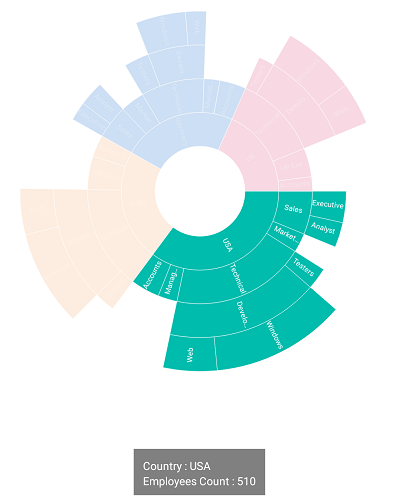
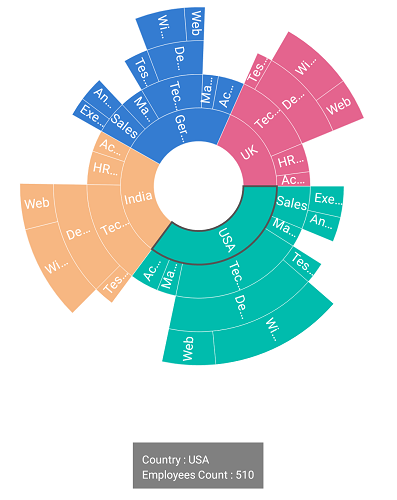
Content modifications

diff --git a/Xamarin/SfSunburstChart/Customization.md b/Xamarin/SfSunburstChart/Customization.md
@@ -40,6 +40,10 @@ The following code shows applying the TomatoSpectrum [`Palette`](https://help.sy
                     <sunburst:SunburstHierarchicalLevel GroupMemberPath="JobRole"/>
                 </sunburst:SfSunburstChart.Levels>
 
+                 <sunburst:SfSunburstChart.DataLabel>
+                    <sunburst:SunburstChartDataLabel x:Name="dataLabel" ShowLabel="True"></sunburst:SunburstChartDataLabel>
+                </sunburst:SfSunburstChart.DataLabel>
+
                  <sunburst:SfSunburstChart.ColorModel>
                     <sunburst:SunburstChartColorModel Palette="TomatoSpectrum"></sunburst:SunburstChartColorModel>
                 </sunburst:SfSunburstChart.ColorModel>
@@ -57,11 +61,15 @@ The following code shows applying the TomatoSpectrum [`Palette`](https://help.sy
             sunburstChart.Levels.Add(new SunburstHierarchicalLevel() { GroupMemberPath = "Country" });
             sunburstChart.Levels.Add(new SunburstHierarchicalLevel() { GroupMemberPath = "JobDescription" });
             sunburstChart.Levels.Add(new SunburstHierarchicalLevel() { GroupMemberPath = "JobGroup" });
-            sunburstChart.Levels.Add(new SunburstHierarchicalLevel() { GroupMemberPath = "JobRole" });
+            sunburstChart.Levels.Add(new SunburstHierarchicalLevel() { GroupMemberPath = "JobRole" });           
 
             SunburstChartColorModel colorModel = new SunburstChartColorModel();
             colorModel.Palette = SunburstColorPalette.TomatoSpectrum;
             sunburstChart.ColorModel = colorModel;
+
+            SunburstChartDataLabel label = new SunburstChartDataLabel();
+            label.ShowLabel = true;
+            sunburstChart.DataLabel = label;
 
             this.Content = sunburstChart;
 
@@ -88,6 +96,12 @@ The start angle and end angle of the sunburst chart can be adjusted by using the
                     <sunburst:SunburstHierarchicalLevel GroupMemberPath="JobGroup"/>
                     <sunburst:SunburstHierarchicalLevel GroupMemberPath="JobRole"/>
                 </sunburst:SfSunburstChart.Levels>
+
+                <sunburst:SfSunburstChart.DataLabel>
+                    <sunburst:SunburstChartDataLabel x:Name="dataLabel" ShowLabel="True"></sunburst:SunburstChartDataLabel>
+                </sunburst:SfSunburstChart.DataLabel>
+
+
   </sunburst:SfSunburstChart>
 
 {% endhighlight %}
@@ -106,6 +120,10 @@ The start angle and end angle of the sunburst chart can be adjusted by using the
             sunburstChart.Levels.Add(new SunburstHierarchicalLevel() { GroupMemberPath = "JobGroup" });
             sunburstChart.Levels.Add(new SunburstHierarchicalLevel() { GroupMemberPath = "JobRole" });
 
+            SunburstChartDataLabel label = new SunburstChartDataLabel();
+            label.ShowLabel = true;
+            sunburstChart.DataLabel = label;
+
             this.Content = sunburstChart;
 
 {% endhighlight %}
@@ -122,7 +140,7 @@ The sunburst chart allows you to customize the radius by using the [`Radius`](ht
 
 {% highlight xaml %}
 
-  <sunburst:SfSunburstChart x:Name="sunburstChart" ItemsSource="{Binding DataSource}" 
+      <sunburst:SfSunburstChart x:Name="sunburstChart" ItemsSource="{Binding DataSource}" 
                                   ValueMemberPath="EmployeesCount"  Radius="0.6">
 
                 <sunburst:SfSunburstChart.Levels>
@@ -131,7 +149,12 @@ The sunburst chart allows you to customize the radius by using the [`Radius`](ht
                     <sunburst:SunburstHierarchicalLevel GroupMemberPath="JobGroup"/>
                     <sunburst:SunburstHierarchicalLevel GroupMemberPath="JobRole"/>
                 </sunburst:SfSunburstChart.Levels>
-  </sunburst:SfSunburstChart>
+
+                <sunburst:SfSunburstChart.DataLabel>
+                    <sunburst:SunburstChartDataLabel x:Name="dataLabel" ShowLabel="True"></sunburst:SunburstChartDataLabel>
+                </sunburst:SfSunburstChart.DataLabel>
+
+      </sunburst:SfSunburstChart>
 
 {% endhighlight %}
 
@@ -147,6 +170,10 @@ The sunburst chart allows you to customize the radius by using the [`Radius`](ht
             sunburstChart.Levels.Add(new SunburstHierarchicalLevel() { GroupMemberPath = "JobDescription" });
             sunburstChart.Levels.Add(new SunburstHierarchicalLevel() { GroupMemberPath = "JobGroup" });
             sunburstChart.Levels.Add(new SunburstHierarchicalLevel() { GroupMemberPath = "JobRole" });
+
+            SunburstChartDataLabel label = new SunburstChartDataLabel();
+            label.ShowLabel = true;
+            sunburstChart.DataLabel = label;
 
             this.Content = sunburstChart;
 
@@ -164,7 +191,7 @@ The sunburst chart allows you to customize the inner radius using the [`InnerRad
 
 {% highlight xaml %}
 
-  <sunburst:SfSunburstChart x:Name="sunburstChart" ItemsSource="{Binding DataSource}" 
+     <sunburst:SfSunburstChart x:Name="sunburstChart" ItemsSource="{Binding DataSource}" 
                                   ValueMemberPath="EmployeesCount"  InnerRadius="0.5">
 
                 <sunburst:SfSunburstChart.Levels>
@@ -173,7 +200,12 @@ The sunburst chart allows you to customize the inner radius using the [`InnerRad
                     <sunburst:SunburstHierarchicalLevel GroupMemberPath="JobGroup"/>
                     <sunburst:SunburstHierarchicalLevel GroupMemberPath="JobRole"/>
                 </sunburst:SfSunburstChart.Levels>
-  </sunburst:SfSunburstChart>
+
+                <sunburst:SfSunburstChart.DataLabel>
+                    <sunburst:SunburstChartDataLabel x:Name="dataLabel" ShowLabel="True"></sunburst:SunburstChartDataLabel>
+                </sunburst:SfSunburstChart.DataLabel>
+
+     </sunburst:SfSunburstChart>
 
 {% endhighlight %}
 
@@ -189,6 +221,10 @@ The sunburst chart allows you to customize the inner radius using the [`InnerRad
             sunburstChart.Levels.Add(new SunburstHierarchicalLevel() { GroupMemberPath = "JobDescription" });
             sunburstChart.Levels.Add(new SunburstHierarchicalLevel() { GroupMemberPath = "JobGroup" });
             sunburstChart.Levels.Add(new SunburstHierarchicalLevel() { GroupMemberPath = "JobRole" });
+
+            SunburstChartDataLabel label = new SunburstChartDataLabel();
+            label.ShowLabel = true;
+            sunburstChart.DataLabel = label;
 
             this.Content = sunburstChart;
 
@@ -206,7 +242,7 @@ Stroke color and stroke width of the sunburst chart can be customized using [`St
 
 {% highlight xaml %}
 
-  <sunburst:SfSunburstChart x:Name="sunburstChart" ItemsSource="{Binding DataSource}" 
+      <sunburst:SfSunburstChart x:Name="sunburstChart" ItemsSource="{Binding DataSource}" 
                                   ValueMemberPath="EmployeesCount"  StrokeColor="Black" StrokeWidth="2">
 
                 <sunburst:SfSunburstChart.Levels>
@@ -215,7 +251,12 @@ Stroke color and stroke width of the sunburst chart can be customized using [`St
                     <sunburst:SunburstHierarchicalLevel GroupMemberPath="JobGroup"/>
                     <sunburst:SunburstHierarchicalLevel GroupMemberPath="JobRole"/>
                 </sunburst:SfSunburstChart.Levels>
-  </sunburst:SfSunburstChart>
+
+                <sunburst:SfSunburstChart.DataLabel>
+                    <sunburst:SunburstChartDataLabel x:Name="dataLabel" ShowLabel="True"></sunburst:SunburstChartDataLabel>
+                </sunburst:SfSunburstChart.DataLabel>
+
+        </sunburst:SfSunburstChart>
 
 {% endhighlight %}
 
@@ -232,6 +273,10 @@ Stroke color and stroke width of the sunburst chart can be customized using [`St
             sunburstChart.Levels.Add(new SunburstHierarchicalLevel() { GroupMemberPath = "JobDescription" });
             sunburstChart.Levels.Add(new SunburstHierarchicalLevel() { GroupMemberPath = "JobGroup" });
             sunburstChart.Levels.Add(new SunburstHierarchicalLevel() { GroupMemberPath = "JobRole" });
+
+            SunburstChartDataLabel label = new SunburstChartDataLabel();
+            label.ShowLabel = true;
+            sunburstChart.DataLabel = label;
 
             this.Content = sunburstChart;
 

diff --git a/Xamarin/SfSunburstChart/Animation.md b/Xamarin/SfSunburstChart/Animation.md
@@ -18,14 +18,7 @@ The following code shows enabling animation.
 {% highlight xaml %}
 
     <sunburst:SfSunburstChart x:Name="sunburstChart" ItemsSource="{Binding DataSource}" 
-                                  ValueMemberPath="EmployeesCount"  EnableAnimation="True">
-
-               <sunburst:SfSunburstChart.Levels>
-                    <sunburst:SunburstHierarchicalLevel GroupMemberPath="Country"/>
-                    <sunburst:SunburstHierarchicalLevel GroupMemberPath="JobDescription"/>
-                    <sunburst:SunburstHierarchicalLevel GroupMemberPath="JobGroup"/>
-                    <sunburst:SunburstHierarchicalLevel GroupMemberPath="JobRole"/>
-                </sunburst:SfSunburstChart.Levels>
+                                  ValueMemberPath="EmployeesCount"  EnableAnimation="True">              
                
     </sunburst:SfSunburstChart>
 
@@ -38,12 +31,7 @@ The following code shows enabling animation.
             sunburstChart.ValueMemberPath = "EmployeesCount";
 
             sunburstChart.EnableAnimation = true;
-
-            sunburstChart.Levels.Add(new SunburstHierarchicalLevel() { GroupMemberPath = "Country" });
-            sunburstChart.Levels.Add(new SunburstHierarchicalLevel() { GroupMemberPath = "JobDescription" });
-            sunburstChart.Levels.Add(new SunburstHierarchicalLevel() { GroupMemberPath = "JobGroup" });
-            sunburstChart.Levels.Add(new SunburstHierarchicalLevel() { GroupMemberPath = "JobRole" });
-
+                       
             this.Content = sunburstChart;
 
 {% endhighlight %}
@@ -71,6 +59,45 @@ Animation duration can be controlled using the `AnimationDuration` property.
             sunburstChart.ValueMemberPath = "EmployeesCount";
 
             sunburstChart.EnableAnimation = true;
+            sunburstChart.AnimationDuration = 2;           
+
+            this.Content = sunburstChart;
+
+{% endhighlight %}
+
+{% endtabs %} 
+
+Below snippet is the complete code for generating the following output.
+
+{% tabs %} 
+
+{% highlight xaml %}
+
+    <sunburst:SfSunburstChart x:Name="sunburstChart" ItemsSource="{Binding DataSource}" AnimationDuration="2"
+                                  ValueMemberPath="EmployeesCount"  EnableAnimation="True">
+
+                 <sunburst:SfSunburstChart.Levels>
+                    <sunburst:SunburstHierarchicalLevel GroupMemberPath="Country"/>
+                    <sunburst:SunburstHierarchicalLevel GroupMemberPath="JobDescription"/>
+                    <sunburst:SunburstHierarchicalLevel GroupMemberPath="JobGroup"/>
+                    <sunburst:SunburstHierarchicalLevel GroupMemberPath="JobRole"/>
+                </sunburst:SfSunburstChart.Levels>
+
+                <sunburst:SfSunburstChart.DataLabel>
+                    <sunburst:SunburstChartDataLabel x:Name="dataLabel" ShowLabel="True"></sunburst:SunburstChartDataLabel>
+                </sunburst:SfSunburstChart.DataLabel>
+
+    </sunburst:SfSunburstChart>
+
+{% endhighlight %}
+
+{% highlight C# %} 
+
+            SfSunburstChart sunburstChart = new SfSunburstChart();
+            sunburstChart.SetBinding(SfSunburstChart.ItemsSourceProperty, "DataSource");
+            sunburstChart.ValueMemberPath = "EmployeesCount";
+
+            sunburstChart.EnableAnimation = true;
             sunburstChart.AnimationDuration = 2;
 
             sunburstChart.Levels.Add(new SunburstHierarchicalLevel() { GroupMemberPath = "Country" });
@@ -78,11 +105,16 @@ Animation duration can be controlled using the `AnimationDuration` property.
             sunburstChart.Levels.Add(new SunburstHierarchicalLevel() { GroupMemberPath = "JobGroup" });
             sunburstChart.Levels.Add(new SunburstHierarchicalLevel() { GroupMemberPath = "JobRole" });
 
+            SunburstChartDataLabel label = new SunburstChartDataLabel();
+            label.ShowLabel = true;
+            sunburstChart.DataLabel = label;
+
             this.Content = sunburstChart;
 
 {% endhighlight %}
 
 {% endtabs %} 
+
 
 The following screenshot depicts animation of the sunburst chart with the specified duration.
 

diff --git a/Xamarin/SfSunburstChart/Selection.md b/Xamarin/SfSunburstChart/Selection.md
@@ -236,6 +236,16 @@ This event occurs whenever you select the segment. You can get the selected segm
 
 {% highlight xaml %}
 
+           <sunburst:SfSunburstChart x:Name="sunburstChart" ItemsSource="{Binding DataSource}"
+                                  ValueMemberPath="EmployeesCount" SelectionChanged="SunburstChart_SelectionChanged">
+
+                <sunburst:SfSunburstChart.SelectionSettings>
+                    <sunburst:SelectionSettings  EnableSelection="True" SelectionDisplayMode="HighlightByStrokeColor"                                                 
+                                                 SelectionType="Single"></sunburst:SelectionSettings>
+                </sunburst:SfSunburstChart.SelectionSettings>
+
+         </sunburst:SfSunburstChart>
+
             <StackLayout  x:Name="stackLayout" IsVisible="false" Orientation="Vertical" Spacing="0" Opacity="0.5" BackgroundColor="Black" 
                           Grid.Row="1" Padding="10" HorizontalOptions="Center" VerticalOptions="End" >
                 <Label  x:Name="countryLabel"  FontSize="12"  TextColor="White"/>
@@ -245,6 +255,7 @@ This event occurs whenever you select the segment. You can get the selected segm
 {% endhighlight %}
 
 {% highlight C# %} 
+       
 
         private void SunburstChart_SelectionChanged(object sender, SelectionChangedEventArgs e)
         {
@@ -259,27 +270,26 @@ This event occurs whenever you select the segment. You can get the selected segm
 
                 if (e.SelectedSegment.CurrentLevel == 0)
                 {
-                    countryLabel.Text = "Country: " + e.SelectedSegment.Category;
-                    populationLabel.Text = "Employees Count: " + e.SelectedSegment.Value;
+                    countryLabel.Text = "Country : " + e.SelectedSegment.Category;
+                    populationLabel.Text = "Employees Count : " + e.SelectedSegment.Value;
                 }
                 else if (e.SelectedSegment.CurrentLevel == 1)
                 {
-                    countryLabel.Text = "JobDescription: " + e.SelectedSegment.Category;
-                    populationLabel.Text = "Employees Count: " + e.SelectedSegment.Value;
+                    countryLabel.Text = "JobDescription : " + e.SelectedSegment.Category;
+                    populationLabel.Text = "Employees Count : " + e.SelectedSegment.Value;
                 }
                 else if (e.SelectedSegment.CurrentLevel == 2)
                 {
-                    countryLabel.Text = "JobGroup: " + e.SelectedSegment.Category;
-                    populationLabel.Text = "Employees Count: " + e.SelectedSegment.Value;
+                    countryLabel.Text = "JobGroup : " + e.SelectedSegment.Category;
+                    populationLabel.Text = "Employees Count : " + e.SelectedSegment.Value;
                 }
                 else
                 {
-                    countryLabel.Text = "JobRole: " + e.SelectedSegment.Category;
-                    populationLabel.Text = "Employees Count: " + e.SelectedSegment.Value;
+                    countryLabel.Text = "JobRole : " + e.SelectedSegment.Category;
+                    populationLabel.Text = "Employees Count : " + e.SelectedSegment.Value;
                 }
             }
         }
-
 
 {% endhighlight %}
 

diff --git a/Xamarin/SfSunburstChart/Legend.md b/Xamarin/SfSunburstChart/Legend.md
@@ -144,7 +144,7 @@ The size of the legend icon can be customized using the [`IconHeight`](https://h
 
                  <sunburst:SfSunburstChart.Legend>
                     <sunburst:SunburstChartLegend x:Name="legend" IsVisible="True" IconHeight="15" IconWidth="15"
-                                                  >
+                                                  IconType="Diamond">
                     </sunburst:SunburstChartLegend>
                 </sunburst:SfSunburstChart.Legend>
 
